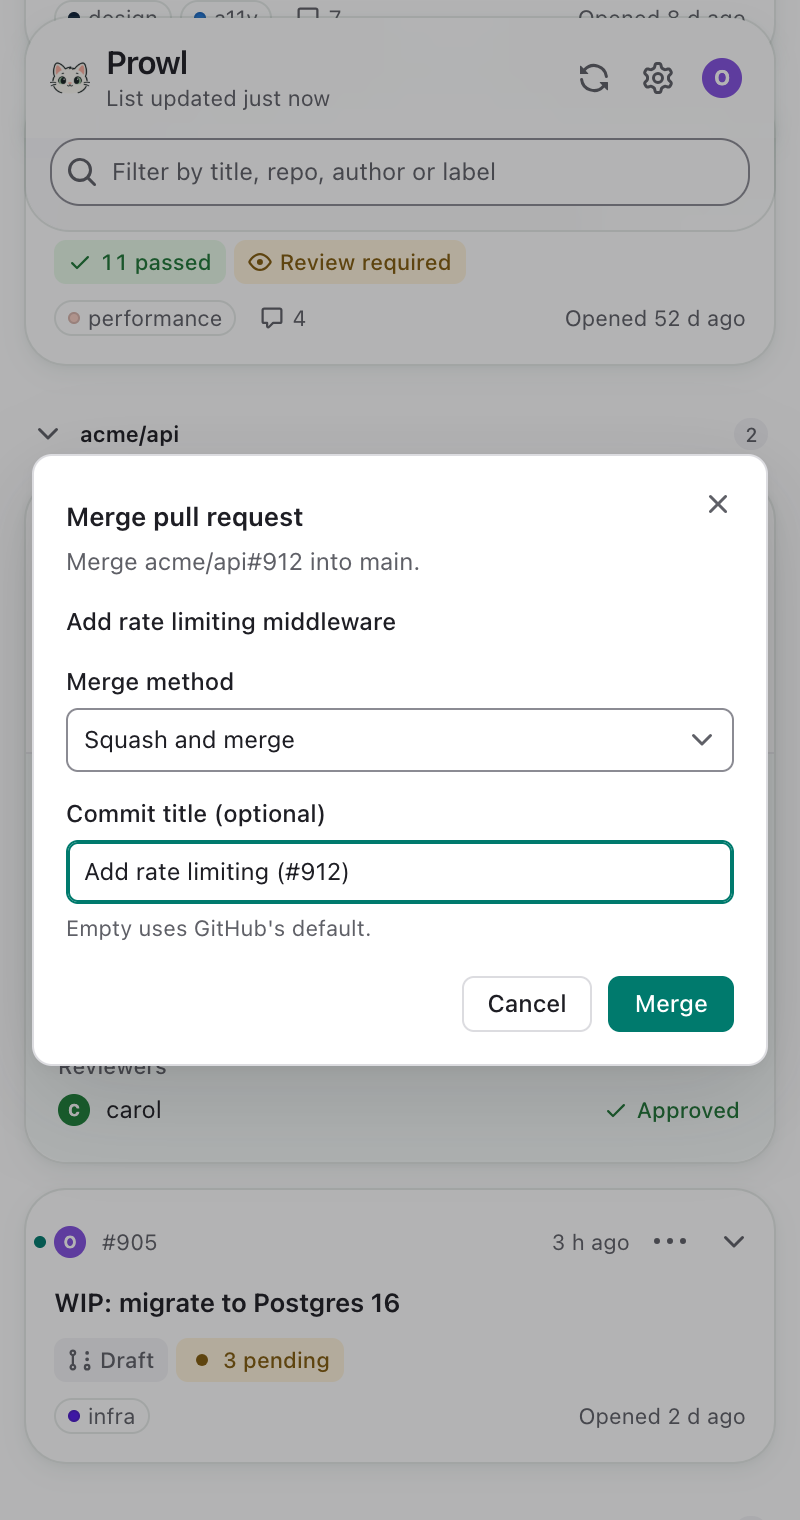
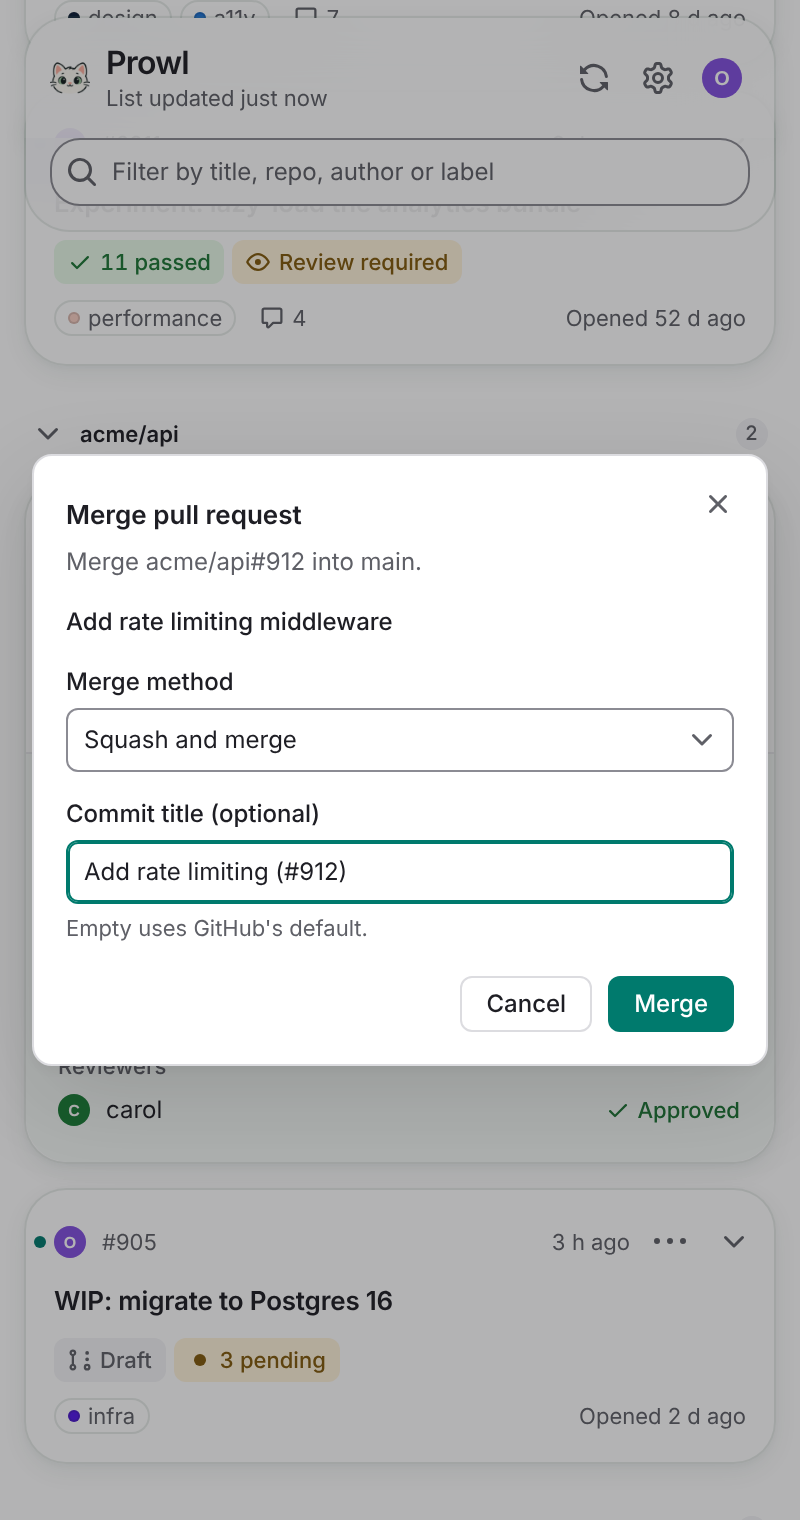
test(e2e): cover the catch-up poll on open, refresh screenshots
The shell spec opens on a fresh list, and a new test opens the panel on a
three-day-old list and sees it refresh at once. Screenshots show the turn
chips and the lighter header logo.

Claude-Session: https://claude.ai/code/session_01DJF4RucRW6yD1TF1hTz2fT

diff --git a/tests/e2e/shell.spec.ts b/tests/e2e/shell.spec.ts
@@ -1,5 +1,6 @@
 import type { Page } from '@playwright/test';
 import { buildPullRequest, buildSnapshotOf } from '../../src/test/panel';
+import { searchResponse } from '../fixtures/github';
 import { expect, test } from './fixtures';
 import { box } from './helpers/listAssertions';
 import { MOCK_ORIGIN } from './mock-github/server';
@@ -41,7 +42,8 @@ const theme = (page: Page) =>
 
 test.describe('signed in', () => {
   test.beforeEach(async ({ seedStorage }) => {
-    await seedStorage({ auth, snapshot: snapshot(minutesAgo(2)), pollState: pollState(false) });
+    // 30 s old: fresh enough that opening the panel does not refresh it (see the test below).
+    await seedStorage({ auth, snapshot: snapshot(minutesAgo(0.5)), pollState: pollState(false) });
   });
 
   test('shows the shell, accessible in light and dark', async ({
@@ -50,7 +52,7 @@ test.describe('signed in', () => {
   }) => {
     const panel = await openPanel();
     await expect(panel.getByRole('heading', { level: 1, name: 'Prowl' })).toBeVisible();
-    await expect(panel.getByText('List updated 2 min ago', { exact: true })).toBeVisible();
+    await expect(panel.getByText('List updated just now', { exact: true })).toBeVisible();
     await expect(panel.getByRole('button', { name: 'Refresh' })).toBeVisible();
     await expect(panel.getByRole('button', { name: 'Settings' })).toBeVisible();
     await expect(panel.getByRole('button', { name: 'Account: octocat' })).toBeVisible();
@@ -151,15 +153,22 @@ test.describe('signed in', () => {
       });
     });
     const panel = await openPanel();
-    // Opening the panel on a list older than a minute already refreshes it once.
-    const received = () =>
-      serviceWorker.evaluate(() => (globalThis as { received?: unknown[] }).received);
-    await expect.poll(received).toEqual([{ type: 'poll', force: true }]);
     await panel.getByRole('button', { name: 'Refresh' }).click();
-    await expect.poll(received).toEqual([
-      { type: 'poll', force: true },
-      { type: 'poll', force: true },
-    ]);
+    await expect
+      .poll(() => serviceWorker.evaluate(() => (globalThis as { received?: unknown[] }).received))
+      .toEqual([{ type: 'poll', force: true }]);
+  });
+
+  test('opening the panel on a list older than a minute refreshes it at once', async ({
+    github,
+    openPanel,
+    seedStorage,
+  }) => {
+    github.onGraphQL('ProwlSearch', (variables) => searchResponse([], variables));
+    await seedStorage({ snapshot: snapshot(minutesAgo(3 * 24 * 60)) });
+    const panel = await openPanel();
+    await expect(panel.getByText('List updated just now', { exact: true })).toBeVisible();
+    expect(github.requestsFor('ProwlSearch').length).toBeGreaterThan(0);
   });
 
   test('moves between the list and settings, and back to onboarding on sign-out', async ({
